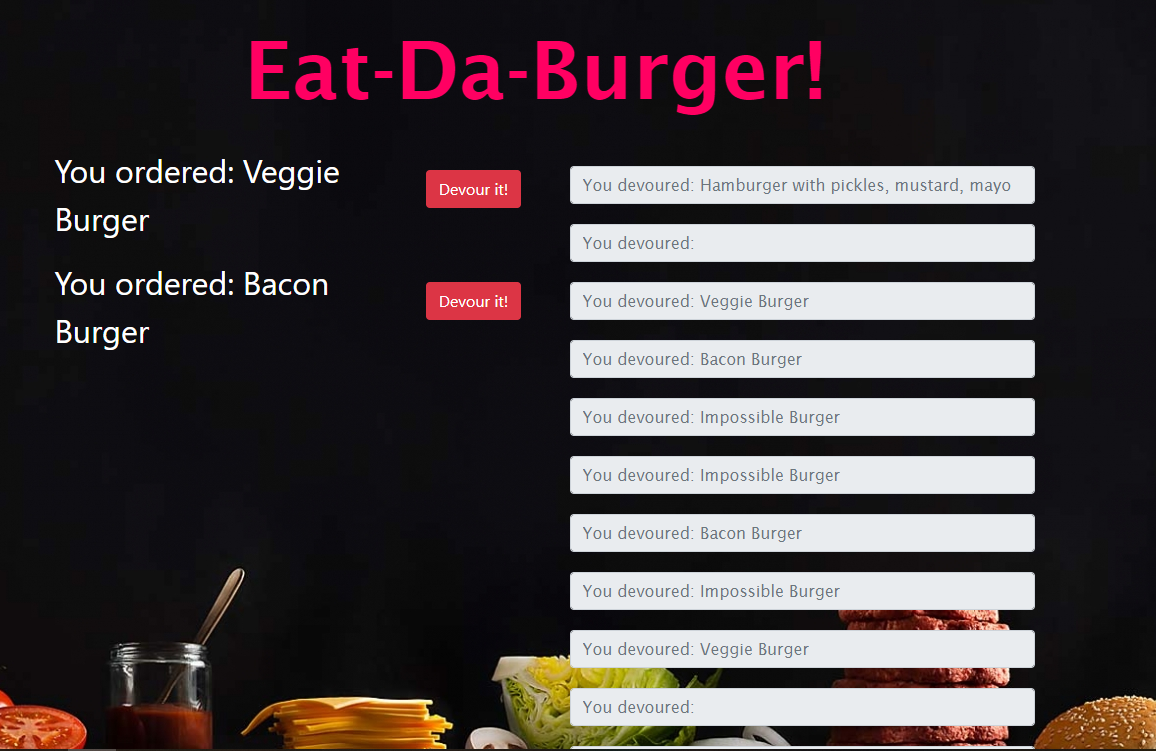
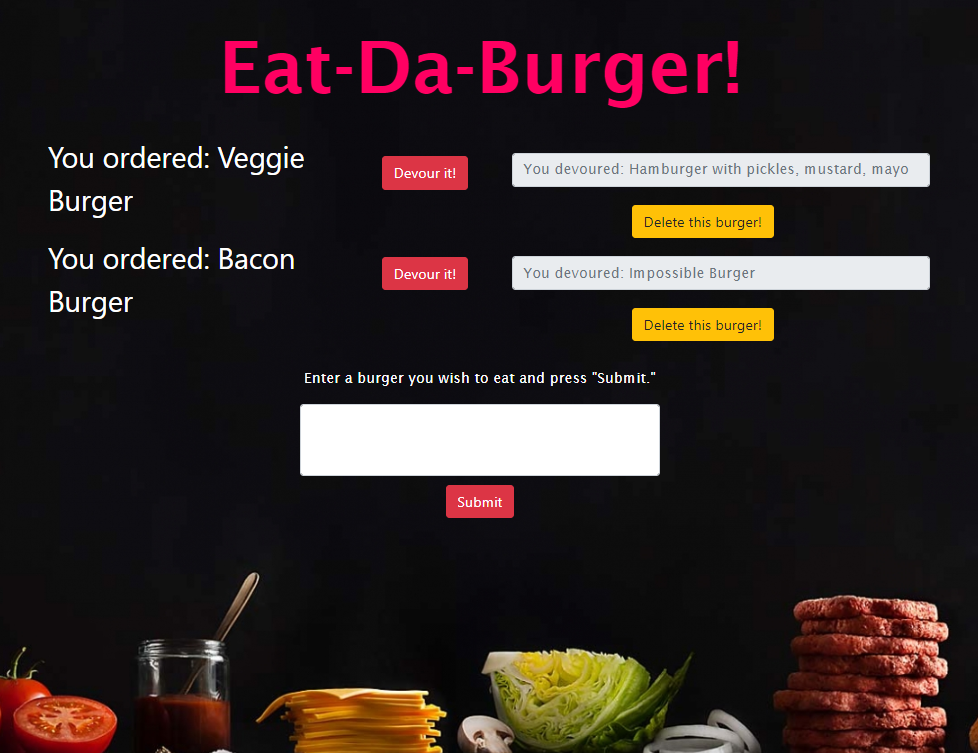
added code and html to add a Delete button for each burger devoured

diff --git a/public/assets/js/scriptBurger.js b/public/assets/js/scriptBurger.js
@@ -11,7 +11,22 @@ $(document).ready(function() {
         // Reload page to display devoured burger in proper column
         location.reload();
       });
-  
     });
+
+    $(".delete-burger").on("click", function (event) {
+      var id = $(this).attr("data-id");
+    
+      // Send the DELETE request.
+      $.ajax("/burgers/" + id, {
+        type: "DELETE"
+      }).then(
+        function () {
+          console.log("deleted burger", id);
+          // Reload the page to get the updated list
+          location.reload();
+        }
+      );
+    });
+
   });
   

diff --git a/controllers/burgersController.js b/controllers/burgersController.js
@@ -35,4 +35,15 @@ router.put("/burgers/:id", function(req, res) {
   });
 });
 
+router.delete("/burgers/:id", function(req, res) {
+
+  burger.delete(req.params.id, function(result) {
+    if (result.affectedRows == 0) {
+      // If no rows were changed, then the ID must not exist, so 404
+      return res.status(404).end();
+    } else {
+      res.status(200).end();
+    }
+  });
+});
 module.exports = router;

diff --git a/config/orm.js b/config/orm.js
@@ -78,7 +78,22 @@ var orm = {
       }
       cb(result);
     });
+  },
+
+  delete: function(table, id, cb) {
+    var queryString = "DELETE FROM " + table;
+    queryString += " WHERE id = ";
+    queryString += id;
+
+    connection.query(queryString, function(err, result) {
+      if (err) {
+        throw err;
+      }
+
+      cb(result);
+    });
   }
+
 };
 
 module.exports = orm;

diff --git a/models/burger.js b/models/burger.js
@@ -20,7 +20,12 @@ var burger = {
     orm.update("burgers", {
       devoured: true
     }, condition, cb);
+  },
+  
+  delete: function (id, cb) {
+    orm.delete("burgers", id, cb);
   }
+
 };
 
 module.exports = burger;

diff --git a/README.md b/README.md
@@ -3,7 +3,7 @@
 created by Jennifer Gaumnitz
 ____________
 
-Eat-Da-Burger! is a restaurant app that lets users input the names of burgers they would like to eat. Whenever a user submits a burger's name, the app displays the burger on the left side of the page -- waiting to be devoured. Each burger in the waiting area also has a "Devour it!" button. When the user clicks it, the burger moves to the right side of the page. The app will store every burger in a database, whether devoured or not.
+Eat-Da-Burger! is a restaurant app that lets users input the names of burgers they would like to eat. Whenever a user submits a burger's name, the app displays the burger on the left side of the page -- waiting to be devoured. Each burger in the waiting area also has a "Devour it!" button. When the user clicks it, the burger moves to the right side of the page. The app will store every burger in a database, whether devoured or not. To delete the burger from the database, the user can click on the "Delete this burger!" button below the burger they wish to remove from the list.
 
 - - - -
 Heroku deployed app: https://polar-beyond-03817.herokuapp.com/
@@ -16,7 +16,7 @@ GitHub repository: https://github.com/JLGaumnitz/burger
 
 <strong>To use the app:</strong> 
 
-Simply go to the Heroku link above. Input the names of burgers you would like to eat. Submit a burger's name, and the app displays the burger on the left side of the page -- waiting to be devoured. Each burger in the waiting area also has a "Devour it!" button. When you click it, the burger moves to the right side of the page.
+Simply go to the Heroku link above. Input the names of burgers you would like to eat. Submit a burger's name, and the app displays the burger on the left side of the page -- waiting to be devoured. Each burger in the waiting area also has a "Devour it!" button. When you click it, the burger moves to the right side of the page. To delete the burger from the database, you can click on the "Delete this burger!" button below the burger you wish to remove from the list.
 
 ![Eat-Da-Burger Top of Page](./images_for_README/Eat-Da-Burger_Bottom_of_Page.PNG)
 
